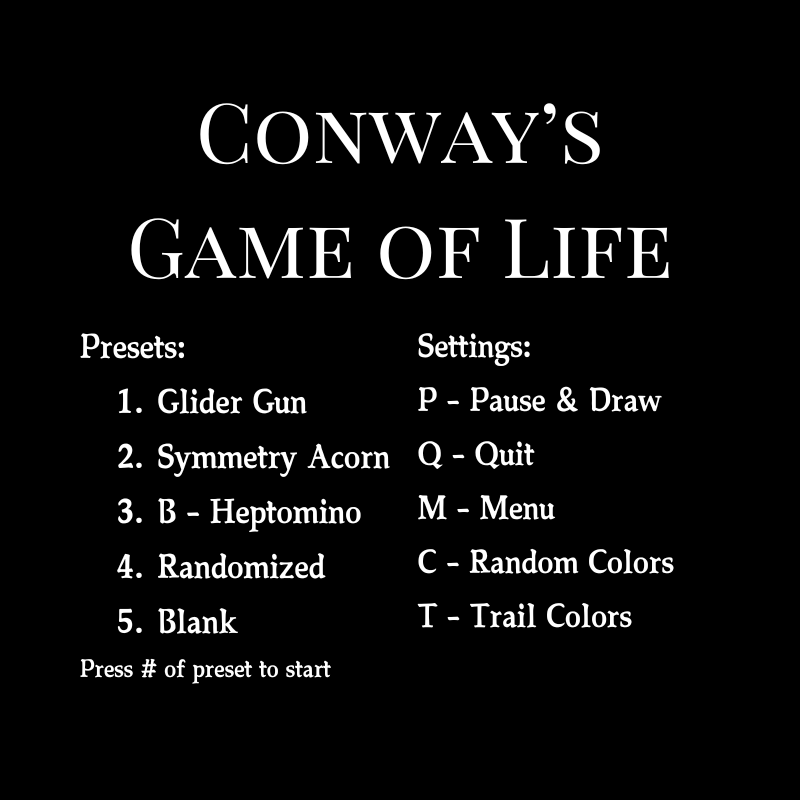
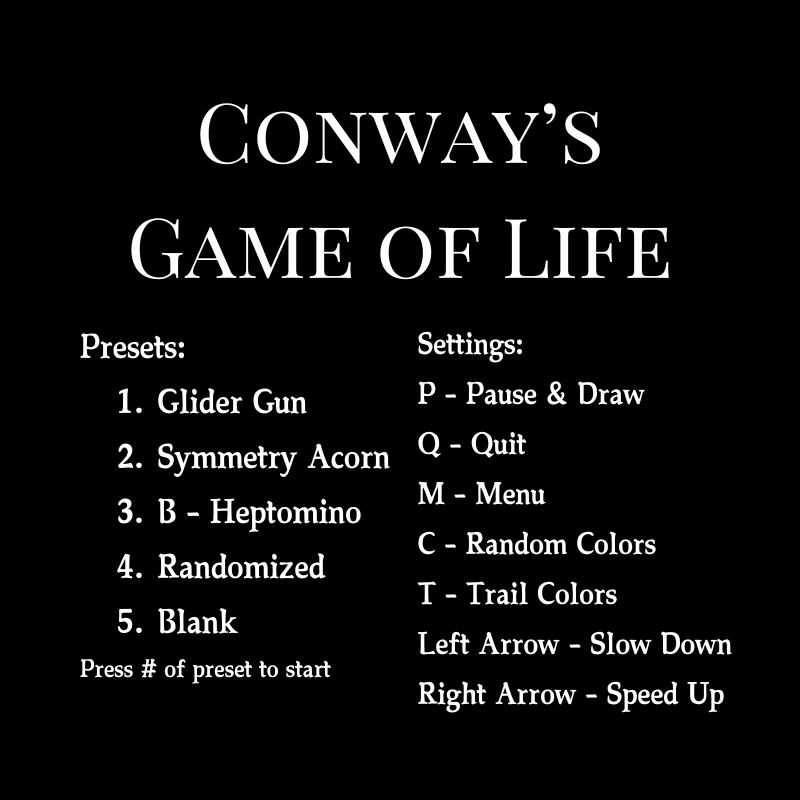
added speed up/down feature

Changed region(s): [[0.5, 0.4062, 0.9062, 0.9062]]

diff --git a/src/states/GameState.cpp b/src/states/GameState.cpp
@@ -61,6 +61,20 @@ namespace GameOfLife {
                             break;
                         case sf::Keyboard::M:
                             this->data->machine.AddState(StateRef(new MenuState(data)));
+                        case sf::Keyboard::Left: 
+                            {
+                                float min = MIN_GENERATOIN_DELAY_SECONDS;
+                                if(this->generationDelay < min)
+                                    this->generationDelay += GENERATION_DELAY_STEP_SECONDS;
+                            }
+                            break;
+                        case sf::Keyboard::Right:
+                            {
+                                float max = MAX_GENERATION_DELAY_SECONDS;
+                                if(this->generationDelay > max)
+                                    this->generationDelay -= GENERATION_DELAY_STEP_SECONDS;
+                            }
+                            break;
                         default:
                             break;
                     } 
@@ -87,7 +101,7 @@ namespace GameOfLife {
     }
 
     void GameState::Update(float dt){
-        if (!this->paused && this->clock.getElapsedTime().asSeconds() > GENERATION_DELAY_SECONDS) {
+        if (!this->paused && this->clock.getElapsedTime().asSeconds() > this->generationDelay) {
             this->clock.restart();
             this->data->board.ProcessGeneration();
             this->data->board.Update(this->randomColors, this->trailColors);

diff --git a/include/DEFINITIONS.hpp b/include/DEFINITIONS.hpp
@@ -24,7 +24,10 @@
 #define BOARD_COLUMNS 50
 #define BOARD_MARGIN 50.0f
 
-#define GENERATION_DELAY_SECONDS 0.005f
+#define GENERATION_DELAY_SECONDS 0.01f
+#define MAX_GENERATION_DELAY_SECONDS 0.005f;
+#define MIN_GENERATOIN_DELAY_SECONDS 0.1f;
+#define GENERATION_DELAY_STEP_SECONDS 0.005f;
 
 #define CELL_WIDTH (SCREEN_WIDTH-(2*BOARD_MARGIN))/BOARD_ROWS
 #define CELL_HEIGHT (SCREEN_HEIGHT-(2*BOARD_MARGIN))/BOARD_COLUMNS
@@ -47,5 +50,5 @@
 #define CELL_DEAD_TRAIL_8 sf::Color(50, 0, 0)
 #define CELL_DEAD_TRAIL_9 sf::Color(30, 0, 0)
 #define CELL_DEAD_TRAIL_10 sf::Color(15, 0, 0)
-#define CELL_DEAD_TRAIL_11 sf::Color(0, 0, 0)
+#define CELL_DEAD_TRAIL_11 sf::Color::Black
 #define CELL_OUTLINE_COLOR sf::Color::White

diff --git a/include/states/GameState.hpp b/include/states/GameState.hpp
@@ -1,5 +1,6 @@
 #pragma once
 
+#include "DEFINITIONS.hpp"
 #include "models/Game.hpp"
 #include <SFML/Graphics/Text.hpp>
 
@@ -19,6 +20,8 @@ namespace GameOfLife {
             bool paused = true;
             bool randomColors = false;
             bool trailColors = false;
+
+            float generationDelay = GENERATION_DELAY_SECONDS;
 
             sf::Text generationsText;
             sf::Text pausedText;
